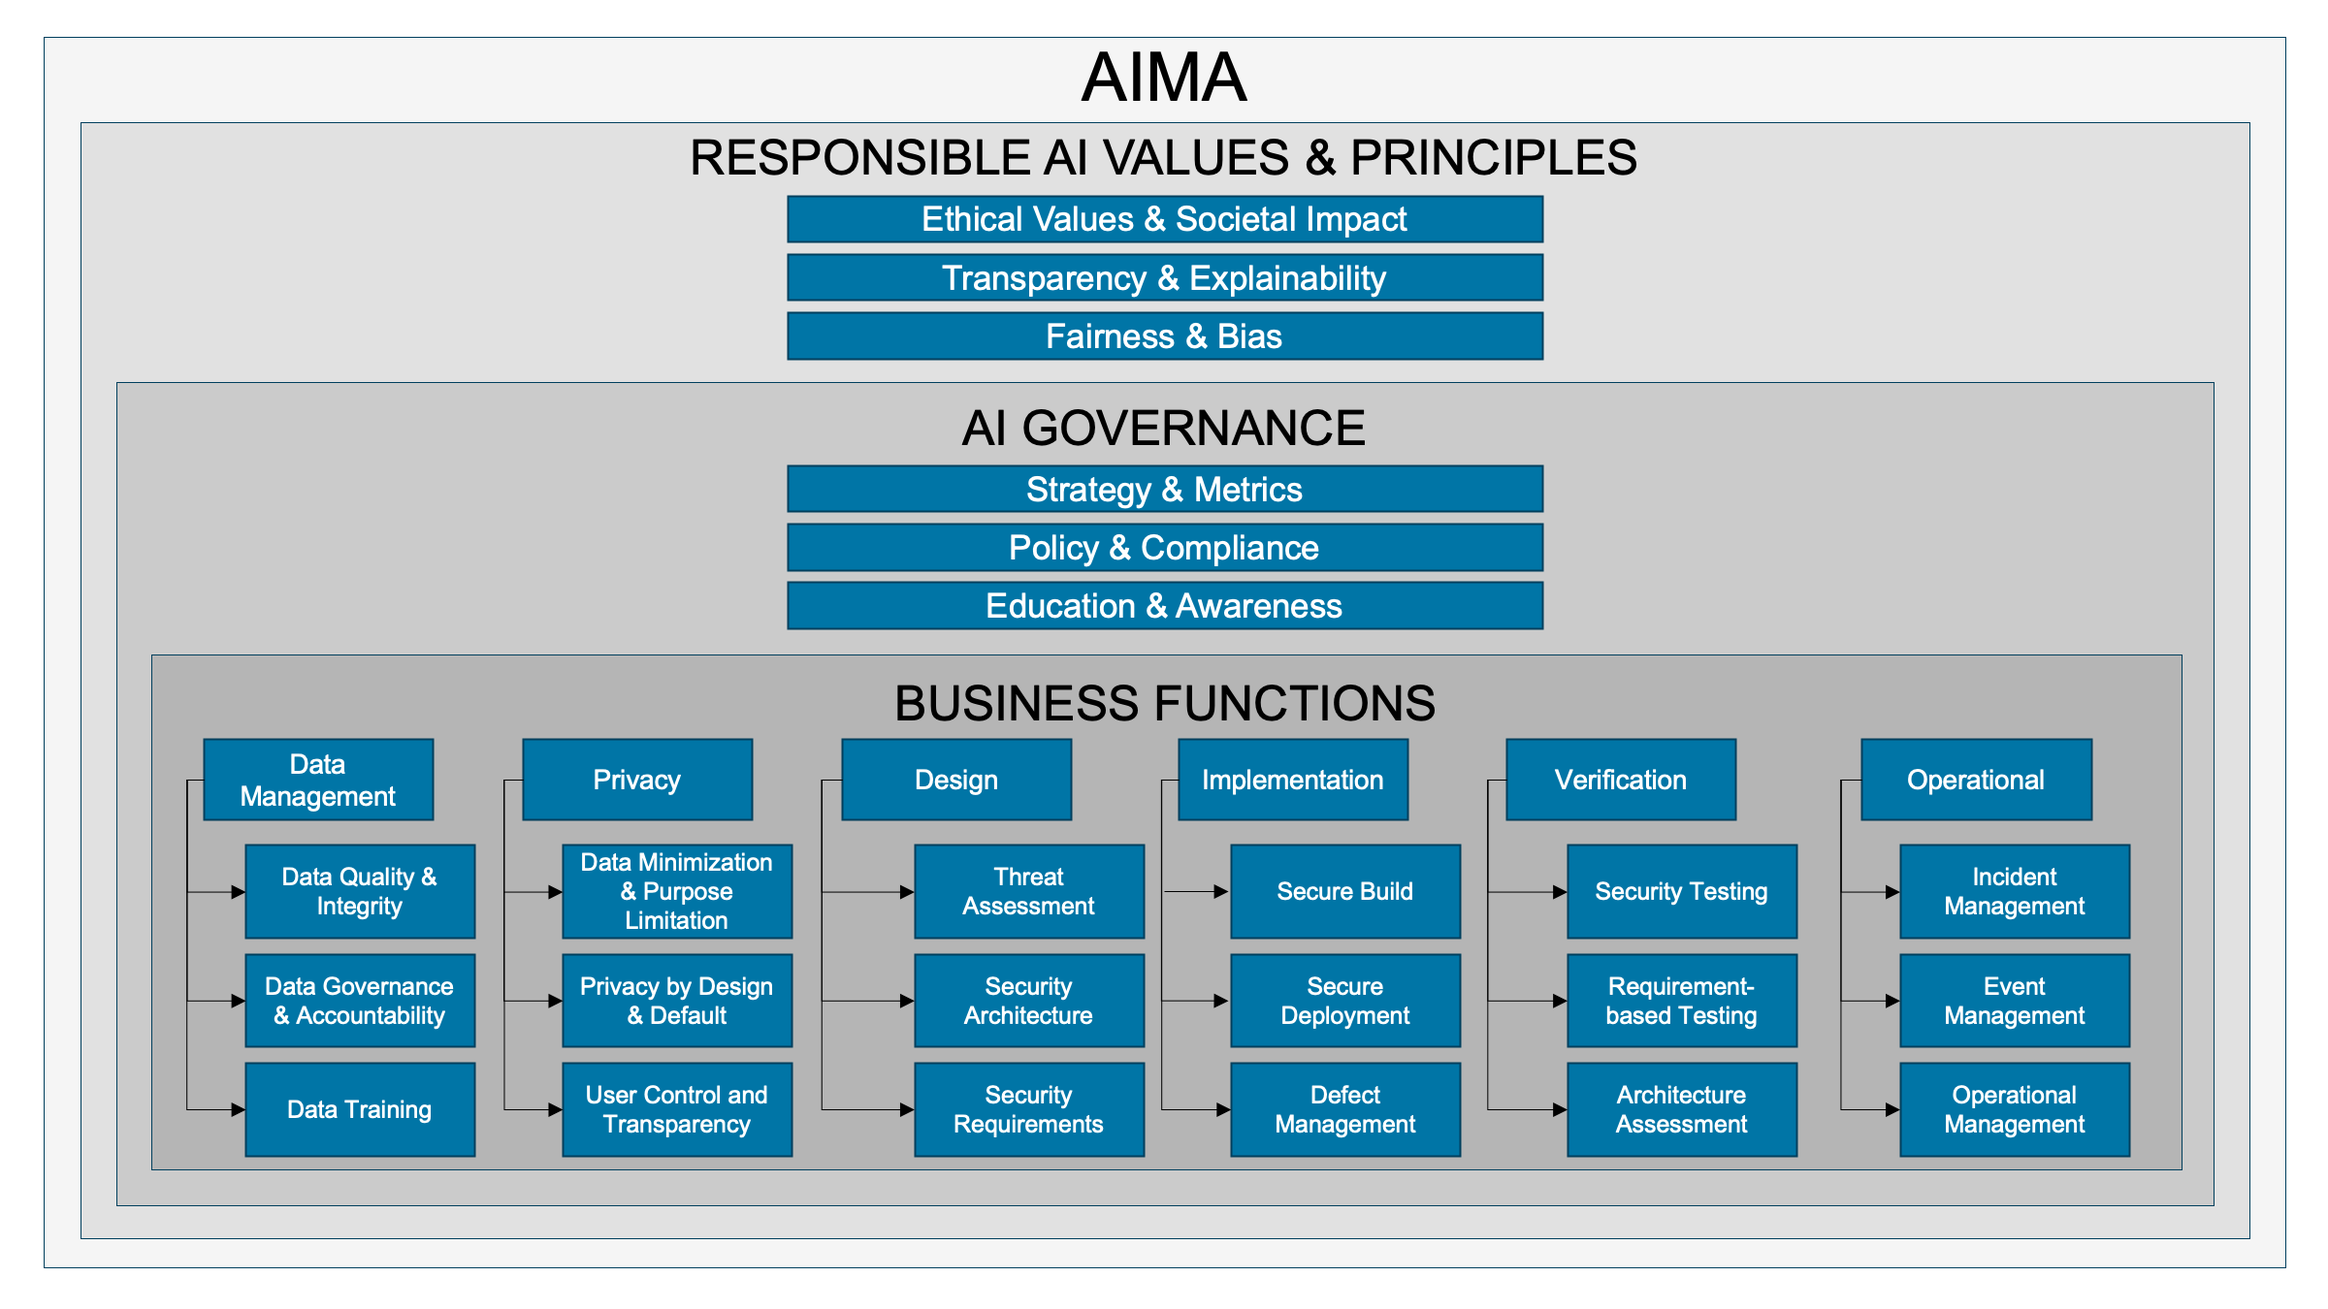
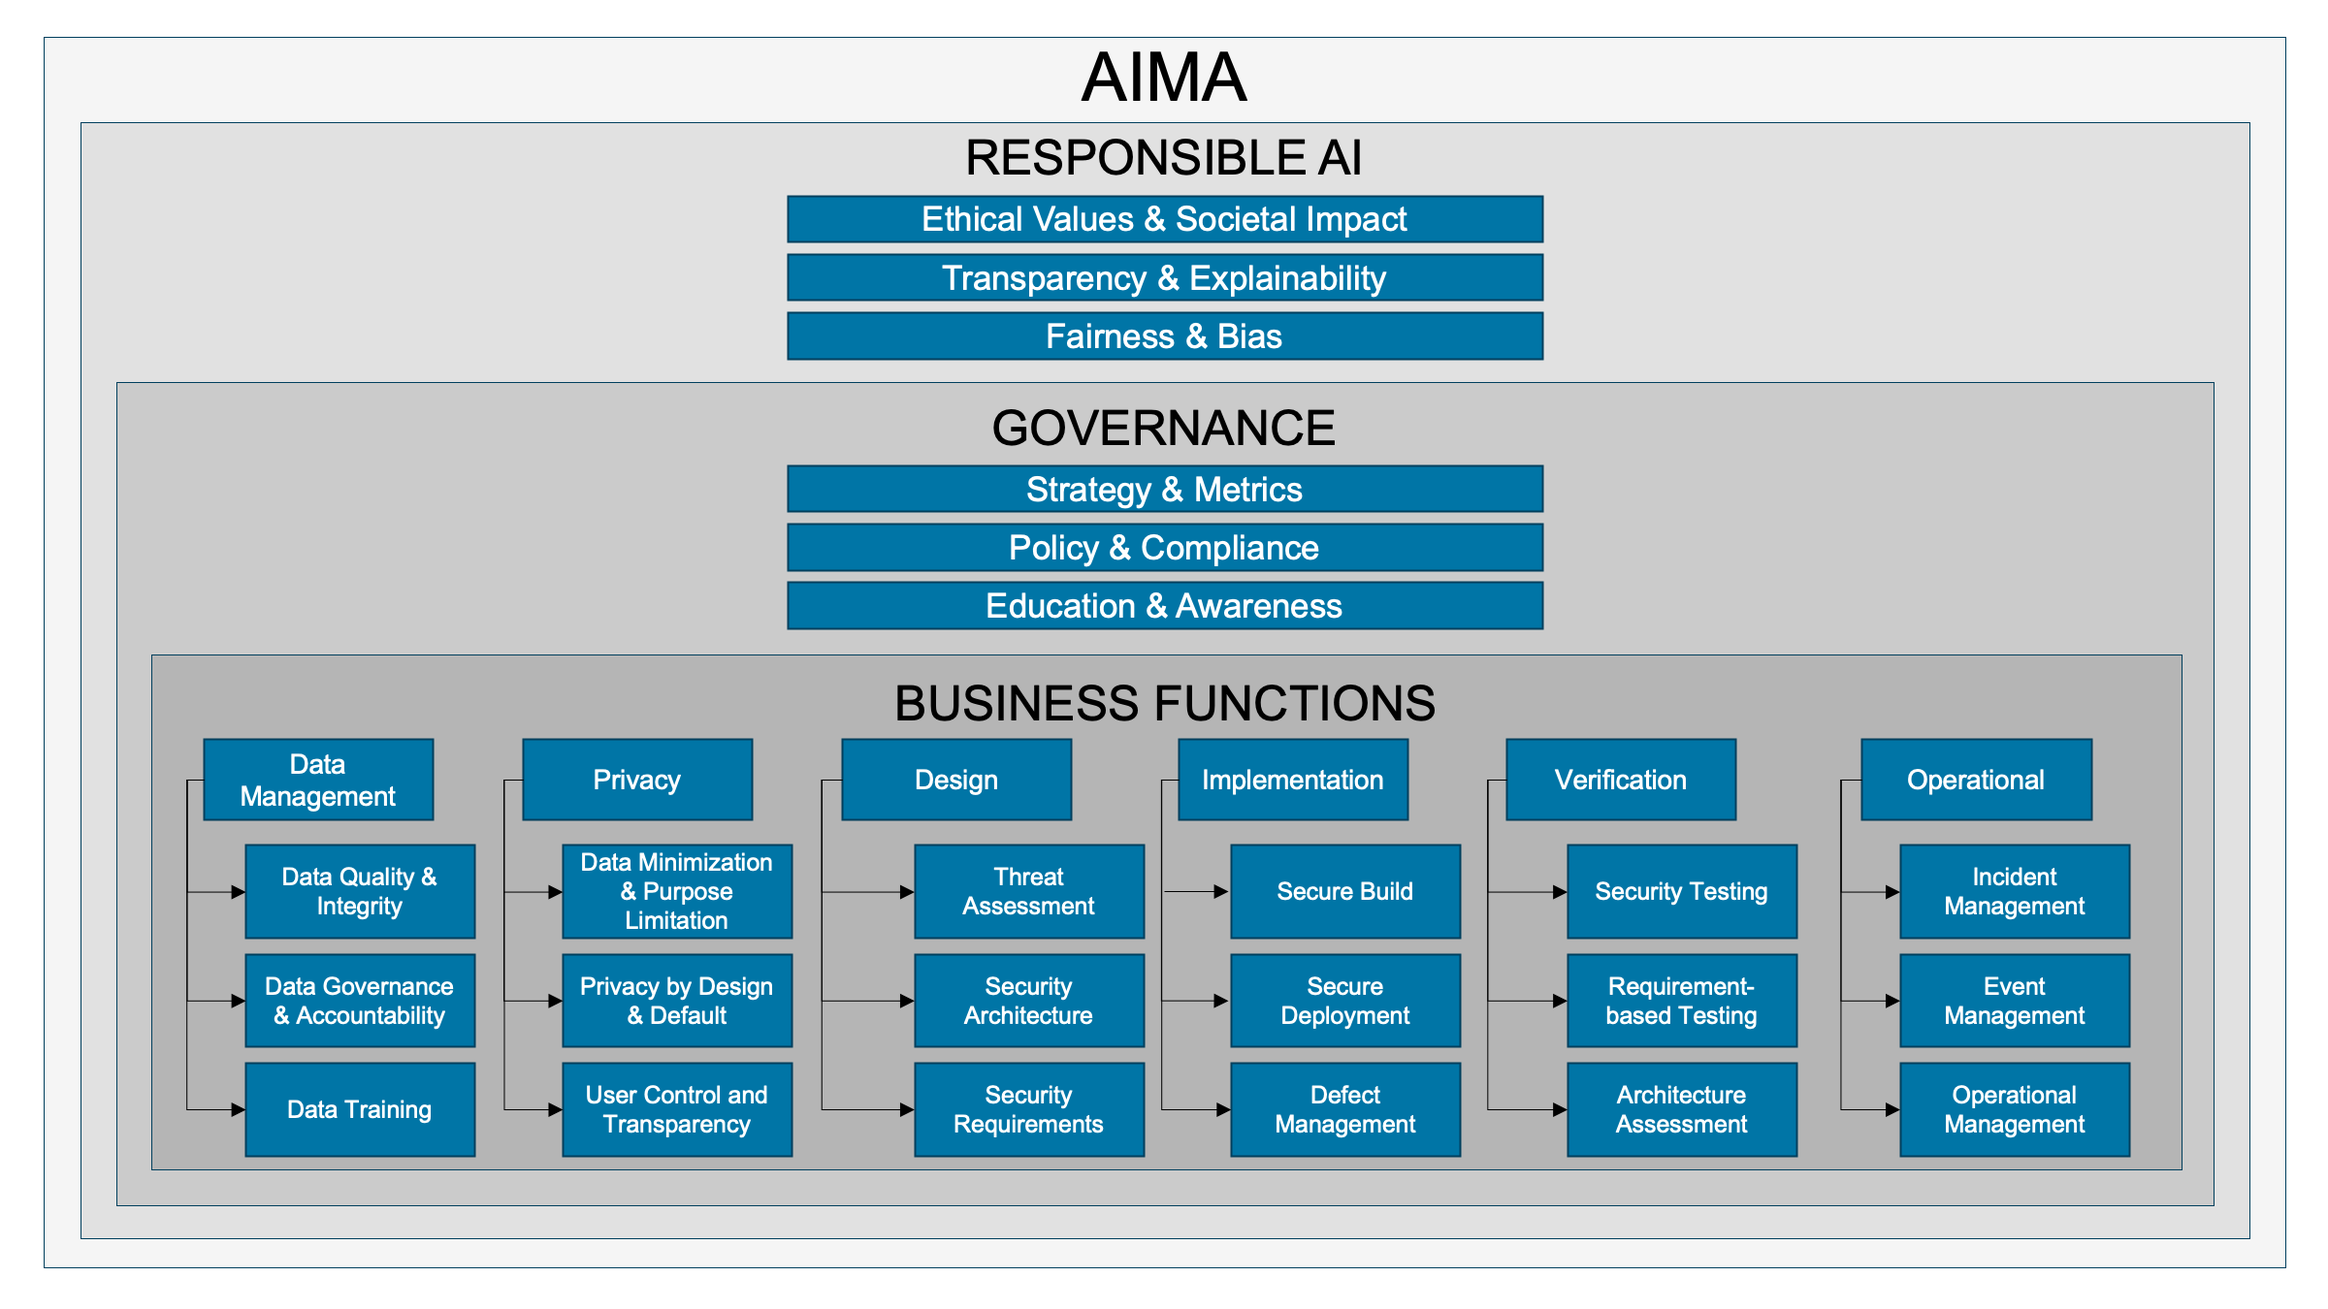
remove repetitive "for AIMA" from text

Changed region(s): [[0.2812, 0.0933, 0.7188, 0.1556], [0.4062, 0.3111, 0.5938, 0.3422]]

diff --git a/DRAFT/content/20_ Applying_the_model/21_Responsible_AI_principles.md b/DRAFT/content/20_ Applying_the_model/21_Responsible_AI_principles.md
@@ -1,6 +1,6 @@
-## Responsible AI Principles Assessment Worksheet
+## Responsible AI Assessment Worksheet
 
-Below is a sample **Responsible AI Principles domain assessment worksheet** for AIMA. It is organized by practice (Fairness & Bias, Transparency & Explainability, Ethical & Societal Impact) and grouped by maturity level. For each question, an assessor would mark **Yes or No** to indicate whether the organization currently fulfills that criterion. Achieving all “Yes” answers in Level 1 for a given practice indicates maturity Level 1 is attained; all Level 1 and Level 2 “Yes” indicates Level 2, and so on. (Partial “Yes” in the next level would be noted as a “+” as discussed.)
+Below is a sample **Responsible AI domain assessment worksheet**. It is organized by practice (Ethical Value& Societal Impact, Fairness & Bias, Transparency & Explainability) and grouped by maturity level. For each question, an assessor would mark **Yes or No** to indicate whether the organization currently fulfills that criterion. Achieving all “Yes” answers in Level 1 for a given practice indicates maturity Level 1 is attained; all Level 1 and Level 2 “Yes” indicates Level 2, and so on. (Partial “Yes” in the next level would be noted as a “+” as discussed.)
 
 #### Ethical Values and Societal Impact – Assessing and managing broader impacts of AI systems.
 
@@ -9,6 +9,8 @@ Below is a sample **Responsible AI Principles domain assessment worksheet** for 
 | Level 1        | Is there informal awareness of the potential ethical and societal impacts of AI systems?                   | Are ethical considerations occasionally discussed in an informal manner?                                                   |
 | Level 2        | Have formal processes been established to assess AI's ethical and societal impacts?                        | Is there an established framework guiding ethical decision-making for AI systems?                                          |
 | Level 3        | Are impact assessments systematically integrated into all AI projects, continuously reviewed, and updated? | Is ethical decision-making fully embedded in organizational processes, consistently guiding AI development and deployment? |
+
+#### Transparency & Explainability – Providing understandable explanations of AI systems.
 
 | Maturity Level | Stream A: Explainability Mechanisms                                                               | Stream B: Transparency Reporting and Communication                                      |
 |----------------|---------------------------------------------------------------------------------------------------|-----------------------------------------------------------------------------------------|
@@ -24,4 +26,3 @@ Below is a sample **Responsible AI Principles domain assessment worksheet** for 
 | Level 2        | Are systematic procedures established to regularly identify and assess biases in AI models?        | Are defined mitigation strategies implemented and periodically reviewed?                     |
 | Level 3        | Is bias assessment integrated systematically across all AI lifecycle stages and audited regularly? | Are proactive mitigation practices continuously monitored and refined across AI deployments? |
 
-#### Transparency & Explainability – Providing understandable explanations of AI systems.

diff --git a/DRAFT/content/20_ Applying_the_model/22_Governance_Assessment_Worksheet.md b/DRAFT/content/20_ Applying_the_model/22_Governance_Assessment_Worksheet.md
@@ -1,6 +1,6 @@
 ## Governance Assessment Worksheet
 
-Below is a sample **Governance domain assessment worksheet** for AIMA, modeled after the OWASP SAMM Governance worksheet. It is organized by practice (Strategy & Metrics, Policy & Compliance, Education & Awareness) and grouped by maturity level. For each question, an assessor would mark **Yes or No** to indicate whether the organization currently fulfills that criterion. Achieving all “Yes” answers in Level 1 for a given practice indicates maturity Level 1 is attained; all Level 1 and Level 2 “Yes” indicates Level 2, and so on. (Partial “Yes” in the next level would be noted as a “+” as discussed.)
+Below is a sample **Governance domain assessment worksheet**, modeled after the OWASP SAMM Governance worksheet. It is organized by practice (Strategy & Metrics, Policy & Compliance, Education & Awareness) and grouped by maturity level. For each question, an assessor would mark **Yes or No** to indicate whether the organization currently fulfills that criterion. Achieving all “Yes” answers in Level 1 for a given practice indicates maturity Level 1 is attained; all Level 1 and Level 2 “Yes” indicates Level 2, and so on. (Partial “Yes” in the next level would be noted as a “+” as discussed.)
 
 
 #### Strategy & Metrics – Aligning AI initiatives with business strategy and measuring AI program effectiveness.

diff --git a/DRAFT/content/20_ Applying_the_model/24_Privacy_Worksheet.md b/DRAFT/content/20_ Applying_the_model/24_Privacy_Worksheet.md
@@ -1,6 +1,6 @@
 ## Privacy Assessment Worksheet
 
-Below is a sample **Privacy domain assessment worksheet** for AIMA. It is organized by practice (Data Minimization & Purpose Limitation, Privacy by Design & Default, User Control & Transparency) and grouped by maturity level. For each question, an assessor would mark **Yes or No** to indicate whether the organization currently fulfills that criterion. Achieving all “Yes” answers in Level 1 for a given practice indicates maturity Level 1 is attained; all Level 1 and Level 2 “Yes” indicates Level 2, and so on. (Partial “Yes” in the next level would be noted as a “+” as discussed.)
+Below is a sample **Privacy domain assessment worksheet**. It is organized by practice (Data Minimization & Purpose Limitation, Privacy by Design & Default, User Control & Transparency) and grouped by maturity level. For each question, an assessor would mark **Yes or No** to indicate whether the organization currently fulfills that criterion. Achieving all “Yes” answers in Level 1 for a given practice indicates maturity Level 1 is attained; all Level 1 and Level 2 “Yes” indicates Level 2, and so on. (Partial “Yes” in the next level would be noted as a “+” as discussed.)
 
 #### Data Minimization & Purpose Limitation – Ensuring AI collects only necessary data for explicit purposes.
 

diff --git a/DRAFT/content/20_ Applying_the_model/23_Data_Management_Worksheet.md b/DRAFT/content/20_ Applying_the_model/23_Data_Management_Worksheet.md
@@ -1,6 +1,6 @@
 ## Data Management Assessment Worksheet
 
-Below is a sample **Data Management domain assessment worksheet** for AIMA. It is organized by practice (Data Quality & Integrity, Data Governance & Accountability, Data Training) and grouped by maturity level. For each question, an assessor would mark **Yes or No** to indicate whether the organization currently fulfills that criterion. Achieving all “Yes” answers in Level 1 for a given practice indicates maturity Level 1 is attained; all Level 1 and Level 2 “Yes” indicates Level 2, and so on. (Partial “Yes” in the next level would be noted as a “+” as discussed.)
+Below is a sample **Data Management domain assessment worksheet**. It is organized by practice (Data Quality & Integrity, Data Governance & Accountability, Data Training) and grouped by maturity level. For each question, an assessor would mark **Yes or No** to indicate whether the organization currently fulfills that criterion. Achieving all “Yes” answers in Level 1 for a given practice indicates maturity Level 1 is attained; all Level 1 and Level 2 “Yes” indicates Level 2, and so on. (Partial “Yes” in the next level would be noted as a “+” as discussed.)
 
 #### Data Quality & Integrity – Ensuring AI data is accurate, reliable, and consistent.
 

diff --git a/DRAFT/content/20_ Applying_the_model/27_Verification_Worksheet.md b/DRAFT/content/20_ Applying_the_model/27_Verification_Worksheet.md
@@ -1,6 +1,6 @@
 ## Verification Assessment Worksheet
 
-Below is a sample **Verification domain assessment worksheet** for AIMA. It is organized by practice (Security Testing, Requirement-Based Testing, Architecture Assessment) and grouped by maturity level. For each question, an assessor would mark **Yes or No** to indicate whether the organization currently fulfills that criterion. Achieving all “Yes” answers in Level 1 for a given practice indicates maturity Level 1 is attained; all Level 1 and Level 2 “Yes” indicates Level 2, and so on. (Partial “Yes” in the next level would be noted as a “+” as discussed.)
+Below is a sample **Verification domain assessment worksheet**. It is organized by practice (Security Testing, Requirement-Based Testing, Architecture Assessment) and grouped by maturity level. For each question, an assessor would mark **Yes or No** to indicate whether the organization currently fulfills that criterion. Achieving all “Yes” answers in Level 1 for a given practice indicates maturity Level 1 is attained; all Level 1 and Level 2 “Yes” indicates Level 2, and so on. (Partial “Yes” in the next level would be noted as a “+” as discussed.)
 
 #### Security Testing – Validating AI systems through systematic security testing.
 

diff --git a/DRAFT/content/20_ Applying_the_model/25_Design_Worksheet.md b/DRAFT/content/20_ Applying_the_model/25_Design_Worksheet.md
@@ -1,6 +1,6 @@
 ## Design Assessment Worksheet
 
-Below is a sample **Design domain assessment worksheet** for AIMA. It is organized by practice (Threat Assessment, Security Architecture, Security Requirements) and grouped by maturity level. For each question, an assessor would mark **Yes or No** to indicate whether the organization currently fulfills that criterion. Achieving all “Yes” answers in Level 1 for a given practice indicates maturity Level 1 is attained; all Level 1 and Level 2 “Yes” indicates Level 2, and so on. (Partial “Yes” in the next level would be noted as a “+” as discussed.)
+Below is a sample **Design domain assessment worksheet**. It is organized by practice (Threat Assessment, Security Architecture, Security Requirements) and grouped by maturity level. For each question, an assessor would mark **Yes or No** to indicate whether the organization currently fulfills that criterion. Achieving all “Yes” answers in Level 1 for a given practice indicates maturity Level 1 is attained; all Level 1 and Level 2 “Yes” indicates Level 2, and so on. (Partial “Yes” in the next level would be noted as a “+” as discussed.)
 
 #### Threat Assessment – Identifying and managing security threats specific to AI systems.
 

diff --git a/DRAFT/content/20_ Applying_the_model/28_Operations_Worksheet.md b/DRAFT/content/20_ Applying_the_model/28_Operations_Worksheet.md
@@ -1,6 +1,6 @@
 ## Operations Assessment Worksheet
 
-Below is a sample **Operations domain assessment worksheet** for AIMA. It is organized by practice (Incident Management, Event Management, Operational Management) and grouped by maturity level. For each question, an assessor would mark **Yes or No** to indicate whether the organization currently fulfills that criterion. Achieving all “Yes” answers in Level 1 for a given practice indicates maturity Level 1 is attained; all Level 1 and Level 2 “Yes” indicates Level 2, and so on. (Partial “Yes” in the next level would be noted as a “+” as discussed.)
+Below is a sample **Operations domain assessment worksheet**. It is organized by practice (Incident Management, Event Management, Operational Management) and grouped by maturity level. For each question, an assessor would mark **Yes or No** to indicate whether the organization currently fulfills that criterion. Achieving all “Yes” answers in Level 1 for a given practice indicates maturity Level 1 is attained; all Level 1 and Level 2 “Yes” indicates Level 2, and so on. (Partial “Yes” in the next level would be noted as a “+” as discussed.)
 
 #### Incident Management – Handling and resolving AI system incidents effectively.
 

diff --git a/DRAFT/content/20_ Applying_the_model/26_Implementation_Worksheet.md b/DRAFT/content/20_ Applying_the_model/26_Implementation_Worksheet.md
@@ -1,6 +1,6 @@
 ## Implementation Assessment Worksheet
 
-Below is a sample **Implementation domain assessment worksheet** for AIMA. It is organized by practice (Secure Build, Secure Deployment, Defect Management) and grouped by maturity level. For each question, an assessor would mark **Yes or No** to indicate whether the organization currently fulfills that criterion. Achieving all “Yes” answers in Level 1 for a given practice indicates maturity Level 1 is attained; all Level 1 and Level 2 “Yes” indicates Level 2, and so on. (Partial “Yes” in the next level would be noted as a “+” as discussed.)
+Below is a sample **Implementation domain assessment worksheet**. It is organized by practice (Secure Build, Secure Deployment, Defect Management) and grouped by maturity level. For each question, an assessor would mark **Yes or No** to indicate whether the organization currently fulfills that criterion. Achieving all “Yes” answers in Level 1 for a given practice indicates maturity Level 1 is attained; all Level 1 and Level 2 “Yes” indicates Level 2, and so on. (Partial “Yes” in the next level would be noted as a “+” as discussed.)
 
 #### Secure Build – Ensuring AI systems are securely built.
 

diff --git a/DRAFT/content/10_The_Model/10_Responsible_AI_Principles/00_index.md b/DRAFT/content/10_The_Model/10_Responsible_AI_Principles/00_index.md
@@ -1,6 +1,6 @@
 ## Responsible AI
 
-The **Responsible AI Principles** pillar addresses the distinct ethical and societal implications that arise specifically from artificial intelligence. While traditional software primarily focuses on functionality and security, AI systems introduce unique risks around fairness, transparency, and broader societal impacts. The opacity of AI decision-making processes, the potential for unintended biases in training data, and the wide-ranging effects of AI-driven outcomes on society necessitate dedicated governance.
+The **Responsible AI** pillar addresses the distinct ethical and societal implications that arise specifically from artificial intelligence. While traditional software primarily focuses on functionality and security, AI systems introduce unique risks around fairness, transparency, and broader societal impacts. The opacity of AI decision-making processes, the potential for unintended biases in training data, and the wide-ranging effects of AI-driven outcomes on society necessitate dedicated governance.
 
 To meet these challenges, this pillar focuses on three core practices:
 

diff --git a/DRAFT/content/10_The_Model/70_Verification/10_Security_Testing.md b/DRAFT/content/10_The_Model/70_Verification/10_Security_Testing.md
@@ -1,6 +1,6 @@
-### AIMA Security Testing
+### Security Testing
 
-The AIMA Security Testing practice is essential for proactively identifying and mitigating security vulnerabilities in AI systems. By systematically performing specialized security assessments tailored for AI, organizations can strengthen their defense against evolving threats such as adversarial attacks, model poisoning, and robustness failures. These security tests ensure AI systems operate safely, securely, and ethically.
+The Security Testing practice is essential for proactively identifying and mitigating security vulnerabilities in AI systems. By systematically performing specialized security assessments tailored for AI, organizations can strengthen their defense against evolving threats such as adversarial attacks, model poisoning, and robustness failures. These security tests ensure AI systems operate safely, securely, and ethically.
 
 #### Objectives
 
